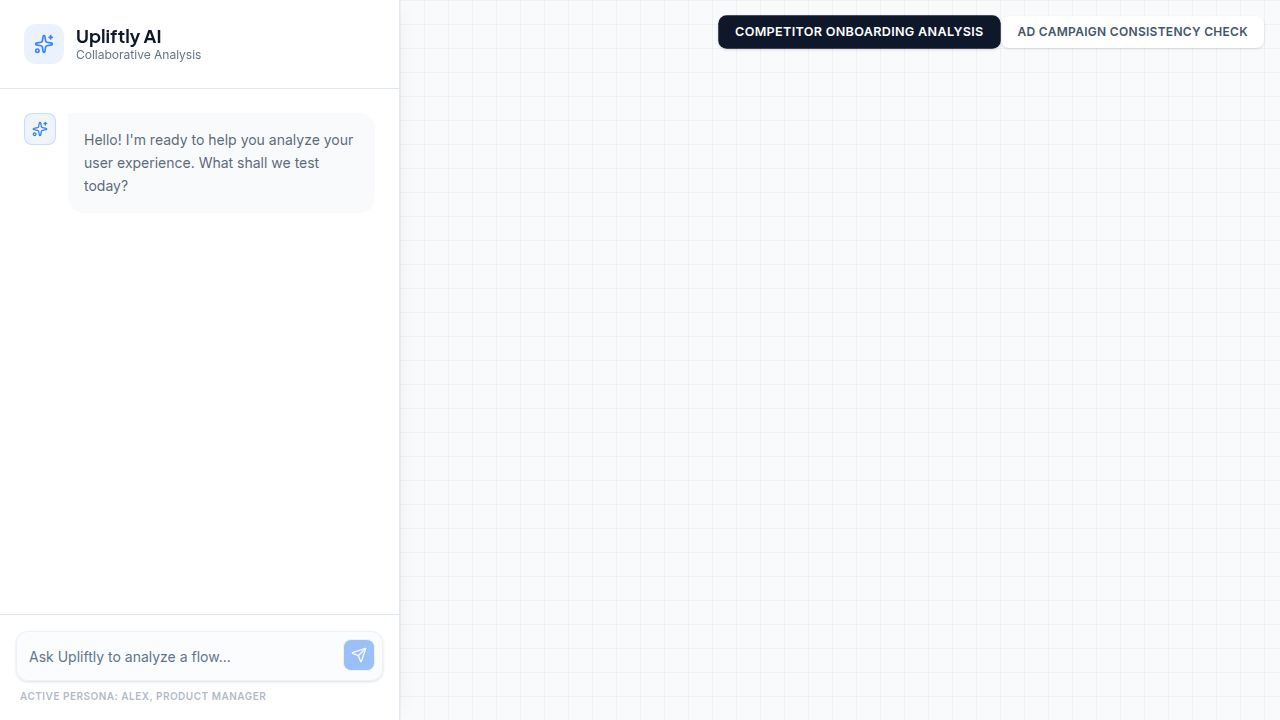
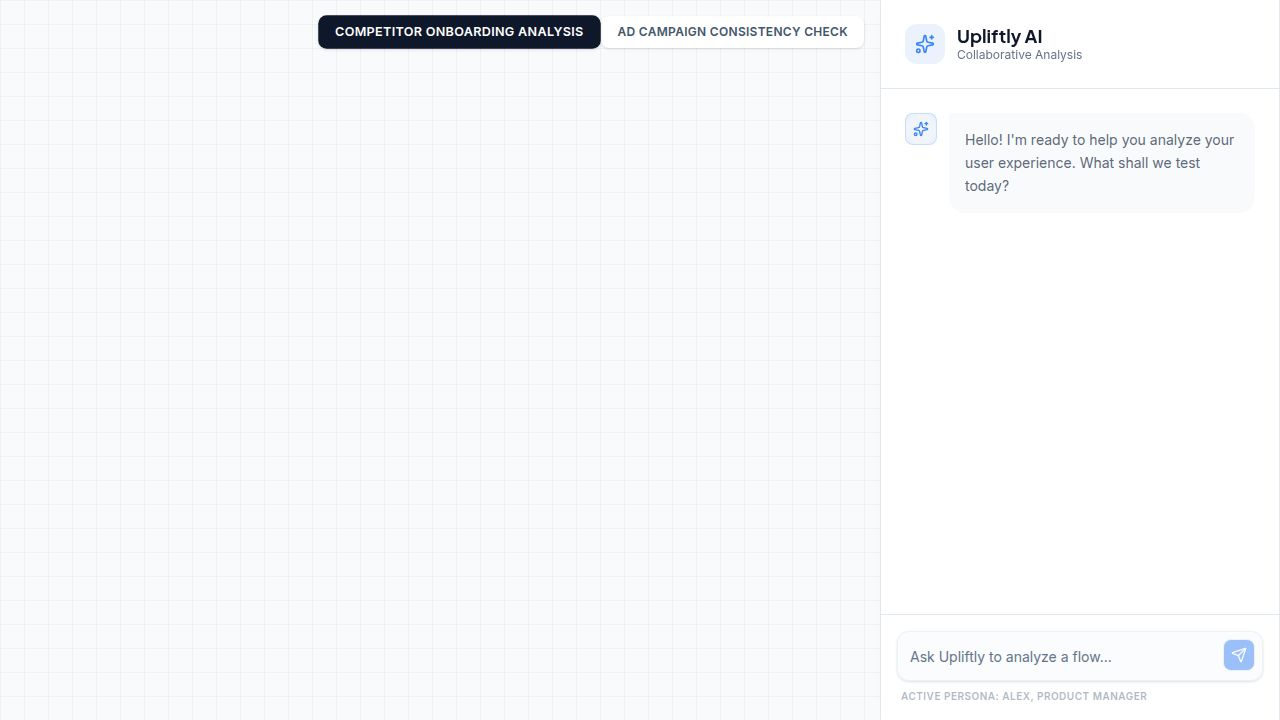
Rearrange layout and update canvas to a horizontal flow
Refactor client layout to move AI chat to the right side and implement horizontal scrolling for the canvas component, updating card layouts and auto-scroll behavior.

Replit-Commit-Author: Agent
Replit-Commit-Session-Id: ee7d8f41-18be-477e-8907-b86719c88b76
Replit-Commit-Checkpoint-Type: full_checkpoint
Replit-Commit-Event-Id: ba3af694-3353-44e9-96c9-9415964e528d
Replit-Commit-Screenshot-Url: https://storage.googleapis.com/screenshot-production-us-central1/79161833-a499-40d9-9374-0f55e77ff4c2/ee7d8f41-18be-477e-8907-b86719c88b76/xE3RFLA
Replit-Helium-Checkpoint-Created: true

diff --git a/client/src/components/canvas/cards/ActionCard.tsx b/client/src/components/canvas/cards/ActionCard.tsx
@@ -1,6 +1,6 @@
 import { CardBase } from "./CardBase";
 import { Badge } from "@/components/ui/badge";
-import { MousePointerClick, Clock, Globe } from "lucide-react";
+import { ZoomIn } from "lucide-react";
 
 interface ActionCardProps {
   title: string;
@@ -13,37 +13,36 @@ interface ActionCardProps {
 
 export function ActionCard({ title, content, image, timestamp, metadata, isLast }: ActionCardProps) {
   return (
-    <CardBase isLast={isLast}>
-      <div className="p-4 border-b border-border/50 flex justify-between items-center bg-muted/20">
-        <div className="flex items-center gap-3">
-          <Badge variant="outline" className="bg-white text-xs font-mono text-muted-foreground uppercase tracking-wider">
+    <CardBase isLast={isLast} className="min-w-[360px] max-w-[360px]">
+      <div className="p-3 border-b border-border/50 flex justify-between items-center bg-muted/20">
+        <div className="flex items-center gap-2">
+          <Badge variant="outline" className="bg-white text-[10px] h-5 px-1.5 font-mono text-muted-foreground uppercase tracking-wider">
             Action
           </Badge>
-          <span className="font-heading font-semibold text-sm text-foreground">{title}</span>
+          <span className="font-heading font-semibold text-sm text-foreground truncate max-w-[180px]">{title}</span>
         </div>
-        <span className="text-xs text-muted-foreground font-mono">{timestamp}</span>
+        <span className="text-[10px] text-muted-foreground font-mono">{timestamp}</span>
       </div>
       
       <div className="p-0">
-        <div className="relative aspect-[16/10] overflow-hidden bg-muted group-hover:brightness-105 transition-all">
-          <img src={image} alt={title} className="w-full h-full object-cover object-top transition-transform duration-700 hover:scale-105" />
+        <div className="relative aspect-[16/10] overflow-hidden bg-muted group cursor-zoom-in">
+          <img src={image} alt={title} className="w-full h-full object-cover object-top transition-transform duration-700 group-hover:scale-105" />
           
-          {/* Overlay info on hover */}
-          <div className="absolute inset-0 bg-black/40 opacity-0 hover:opacity-100 transition-opacity flex items-center justify-center">
-             <button className="bg-white text-foreground px-4 py-2 rounded-full font-medium text-sm shadow-xl transform scale-95 hover:scale-100 transition-all">
-                View Full Replay
-             </button>
+          <div className="absolute inset-0 bg-black/0 group-hover:bg-black/10 transition-colors flex items-center justify-center">
+             <div className="bg-white/90 backdrop-blur-sm p-2 rounded-full opacity-0 group-hover:opacity-100 transition-all transform scale-90 group-hover:scale-100 shadow-lg">
+                <ZoomIn className="w-4 h-4 text-foreground" />
+             </div>
           </div>
         </div>
       </div>
 
-      <div className="p-4 flex flex-col gap-3">
-        <p className="text-sm text-muted-foreground">{content}</p>
+      <div className="p-4 flex flex-col gap-2">
+        <p className="text-xs text-muted-foreground leading-relaxed line-clamp-2">{content}</p>
         
         {metadata && (
-          <div className="flex gap-4 mt-2 pt-3 border-t border-border/50">
+          <div className="flex flex-wrap gap-2 mt-2 pt-2 border-t border-border/50">
             {Object.entries(metadata).map(([key, value]) => (
-              <div key={key} className="flex items-center gap-1.5 text-xs text-muted-foreground">
+              <div key={key} className="flex items-center gap-1 text-[10px] text-muted-foreground bg-muted/50 px-1.5 py-0.5 rounded-md border border-border/50">
                 <span className="font-medium text-foreground">{key}:</span>
                 <span>{value}</span>
               </div>

diff --git a/client/src/components/canvas/Canvas.tsx b/client/src/components/canvas/Canvas.tsx
@@ -3,7 +3,6 @@ import { StoryEvent } from "@/lib/mock-data";
 import { ActionCard } from "./cards/ActionCard";
 import { InsightCard } from "./cards/InsightCard";
 import { AlertCard } from "./cards/AlertCard";
-import { ScrollArea } from "@/components/ui/scroll-area";
 import { motion } from "framer-motion";
 
 interface CanvasProps {
@@ -12,29 +11,39 @@ interface CanvasProps {
 
 export function Canvas({ events }: CanvasProps) {
   const scrollRef = useRef<HTMLDivElement>(null);
-  const bottomRef = useRef<HTMLDivElement>(null);
+  const endRef = useRef<HTMLDivElement>(null);
 
-  // Auto-scroll to bottom when events change
+  // Auto-scroll to right when events change
   useEffect(() => {
-    bottomRef.current?.scrollIntoView({ behavior: "smooth" });
+    if (scrollRef.current) {
+      scrollRef.current.scrollTo({
+        left: scrollRef.current.scrollWidth,
+        behavior: "smooth"
+      });
+    }
   }, [events]);
 
   return (
     <div className="h-full bg-slate-50 relative overflow-hidden flex flex-col">
+      {/* Background Pattern */}
       <div className="absolute inset-0 bg-[linear-gradient(to_right,#80808012_1px,transparent_1px),linear-gradient(to_bottom,#80808012_1px,transparent_1px)] bg-[size:24px_24px]" />
       
-      <div className="flex-1 overflow-y-auto px-8 py-12 custom-scrollbar">
-        <div className="max-w-3xl mx-auto pl-4">
-          <div className="space-y-0">
+      {/* Horizontal Scroll Container */}
+      <div 
+        ref={scrollRef}
+        className="flex-1 overflow-x-auto overflow-y-hidden custom-scrollbar flex items-center px-20 relative z-10"
+      >
+        <div className="flex items-center space-x-0 min-w-max h-full py-20">
              {events.filter(e => ['action', 'insight', 'alert'].includes(e.type)).map((event, index, filteredArr) => {
                const isLast = index === filteredArr.length - 1;
                
                return (
                  <motion.div 
                    key={event.id}
-                   initial={{ opacity: 0, x: -20 }}
+                   initial={{ opacity: 0, x: 50 }}
                    animate={{ opacity: 1, x: 0 }}
-                   transition={{ delay: index * 0.1 }}
+                   transition={{ delay: index * 0.1, type: "spring", stiffness: 100 }}
+                   className="h-auto flex items-center"
                  >
                    {event.type === 'action' && (
                      <ActionCard 
@@ -65,8 +74,7 @@ export function Canvas({ events }: CanvasProps) {
                  </motion.div>
                );
              })}
-             <div ref={bottomRef} className="h-20" />
-          </div>
+             <div ref={endRef} className="w-20" />
         </div>
       </div>
     </div>

diff --git a/client/src/components/canvas/cards/CardBase.tsx b/client/src/components/canvas/cards/CardBase.tsx
@@ -10,30 +10,30 @@ interface CardBaseProps {
 
 export function CardBase({ children, className, isLast }: CardBaseProps) {
   return (
-    <div className="relative flex gap-6 pb-12 group">
-      {/* Timeline Line */}
+    <div className="relative flex flex-col items-center gap-6 pr-12 group h-full justify-center min-w-[320px] max-w-[320px]">
+      {/* Timeline Line (Horizontal) */}
       {!isLast && (
-        <div className="absolute left-[26px] top-12 bottom-0 w-0.5 bg-border group-hover:bg-primary/20 transition-colors duration-300" />
+        <div className="absolute top-[50%] left-[50%] right-[-50%] h-0.5 bg-border group-hover:bg-primary/20 transition-colors duration-300 -z-10" />
       )}
-
-      {/* Timeline Dot */}
-      <div className="relative z-10 flex-shrink-0 mt-4">
-        <div className="w-[52px] h-[52px] rounded-2xl bg-white border border-border shadow-sm flex items-center justify-center text-primary transition-all duration-300 group-hover:scale-110 group-hover:border-primary/50 group-hover:shadow-md">
-          <div className="w-2.5 h-2.5 rounded-full bg-current" />
-        </div>
-      </div>
 
       {/* Content */}
       <motion.div
-        initial={{ opacity: 0, y: 20 }}
-        animate={{ opacity: 1, y: 0 }}
+        initial={{ opacity: 0, scale: 0.9 }}
+        animate={{ opacity: 1, scale: 1 }}
         className={cn(
-          "flex-1 bg-white rounded-2xl border border-border/60 shadow-sm overflow-hidden transition-all duration-300 hover:shadow-lg hover:border-border",
+          "w-full bg-white rounded-2xl border border-border/60 shadow-sm overflow-hidden transition-all duration-300 hover:shadow-xl hover:-translate-y-1 hover:border-border/80",
           className
         )}
       >
         {children}
       </motion.div>
+
+      {/* Timeline Dot */}
+      <div className="relative z-10 flex-shrink-0">
+        <div className="w-8 h-8 rounded-full bg-white border-2 border-border shadow-sm flex items-center justify-center text-primary transition-all duration-300 group-hover:scale-125 group-hover:border-primary">
+          <div className="w-2 h-2 rounded-full bg-current" />
+        </div>
+      </div>
     </div>
   );
 }

diff --git a/client/src/components/canvas/cards/InsightCard.tsx b/client/src/components/canvas/cards/InsightCard.tsx
@@ -1,5 +1,5 @@
 import { CardBase } from "./CardBase";
-import { Sparkles, Lightbulb } from "lucide-react";
+import { Lightbulb } from "lucide-react";
 
 interface InsightCardProps {
   title: string;
@@ -10,17 +10,18 @@ interface InsightCardProps {
 
 export function InsightCard({ title, content, timestamp, isLast }: InsightCardProps) {
   return (
-    <CardBase isLast={isLast} className="border-indigo-100 bg-gradient-to-br from-white to-indigo-50/30">
-      <div className="p-5 flex gap-4">
-        <div className="w-10 h-10 rounded-full bg-indigo-100 flex items-center justify-center text-indigo-600 flex-shrink-0">
-          <Lightbulb className="w-5 h-5" />
-        </div>
-        <div className="flex-1 space-y-2">
-          <div className="flex justify-between items-start">
-            <h4 className="font-heading font-bold text-indigo-950 text-sm uppercase tracking-wide">{title}</h4>
-            <span className="text-xs text-indigo-300 font-mono">{timestamp}</span>
+    <CardBase isLast={isLast} className="border-indigo-100 bg-gradient-to-br from-white to-indigo-50/30 min-w-[280px]">
+      <div className="p-5 flex flex-col gap-3 h-full justify-center">
+        <div className="flex items-center justify-between mb-1">
+          <div className="w-8 h-8 rounded-full bg-indigo-100 flex items-center justify-center text-indigo-600">
+            <Lightbulb className="w-4 h-4" />
           </div>
-          <p className="text-indigo-900/80 leading-relaxed text-sm">
+          <span className="text-[10px] text-indigo-300 font-mono">{timestamp}</span>
+        </div>
+        
+        <div className="space-y-2">
+          <h4 className="font-heading font-bold text-indigo-950 text-xs uppercase tracking-wide">{title}</h4>
+          <p className="text-indigo-900/80 leading-relaxed text-sm font-medium">
             {content}
           </p>
         </div>

diff --git a/client/src/components/canvas/cards/AlertCard.tsx b/client/src/components/canvas/cards/AlertCard.tsx
@@ -10,17 +10,18 @@ interface AlertCardProps {
 
 export function AlertCard({ title, content, timestamp, isLast }: AlertCardProps) {
   return (
-    <CardBase isLast={isLast} className="border-amber-200 bg-amber-50/30">
-      <div className="p-5 flex gap-4">
-        <div className="w-10 h-10 rounded-full bg-amber-100 flex items-center justify-center text-amber-600 flex-shrink-0 animate-pulse">
-          <AlertTriangle className="w-5 h-5" />
-        </div>
-        <div className="flex-1 space-y-2">
-          <div className="flex justify-between items-start">
-            <h4 className="font-heading font-bold text-amber-900 text-sm uppercase tracking-wide">{title}</h4>
-            <span className="text-xs text-amber-400 font-mono">{timestamp}</span>
+    <CardBase isLast={isLast} className="border-amber-200 bg-amber-50/30 min-w-[280px]">
+      <div className="p-5 flex flex-col gap-3 h-full justify-center">
+        <div className="flex items-center justify-between mb-1">
+          <div className="w-8 h-8 rounded-full bg-amber-100 flex items-center justify-center text-amber-600 animate-pulse">
+            <AlertTriangle className="w-4 h-4" />
           </div>
-          <p className="text-amber-800 leading-relaxed text-sm">
+          <span className="text-[10px] text-amber-400 font-mono">{timestamp}</span>
+        </div>
+        
+        <div className="space-y-2">
+          <h4 className="font-heading font-bold text-amber-900 text-xs uppercase tracking-wide">{title}</h4>
+          <p className="text-amber-800 leading-relaxed text-sm font-medium">
             {content}
           </p>
         </div>

diff --git a/client/src/components/layout/Shell.tsx b/client/src/components/layout/Shell.tsx
@@ -8,12 +8,12 @@ interface ShellProps {
 export function Shell({ sidebar, children }: ShellProps) {
   return (
     <div className="flex h-screen w-screen overflow-hidden bg-background">
-      <aside className="w-[400px] h-full flex-shrink-0 z-20">
-        {sidebar}
-      </aside>
-      <main className="flex-1 h-full relative z-10 shadow-2xl">
+      <main className="flex-1 h-full relative z-10 shadow-2xl order-1">
         {children}
       </main>
+      <aside className="w-[400px] h-full flex-shrink-0 z-20 border-l border-border order-2">
+        {sidebar}
+      </aside>
     </div>
   );
 }
